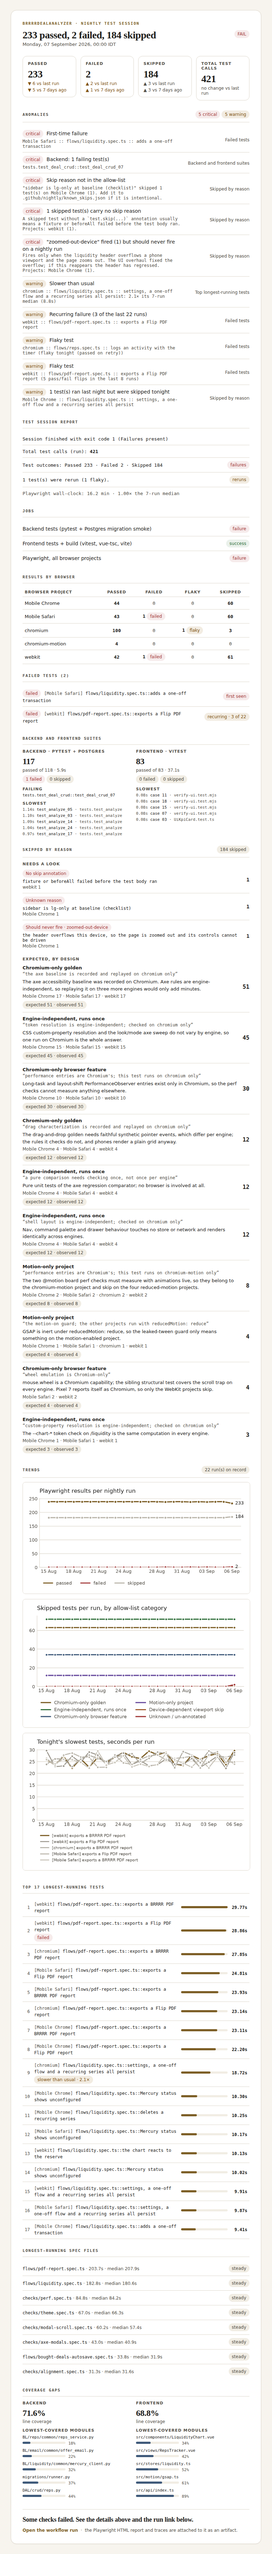
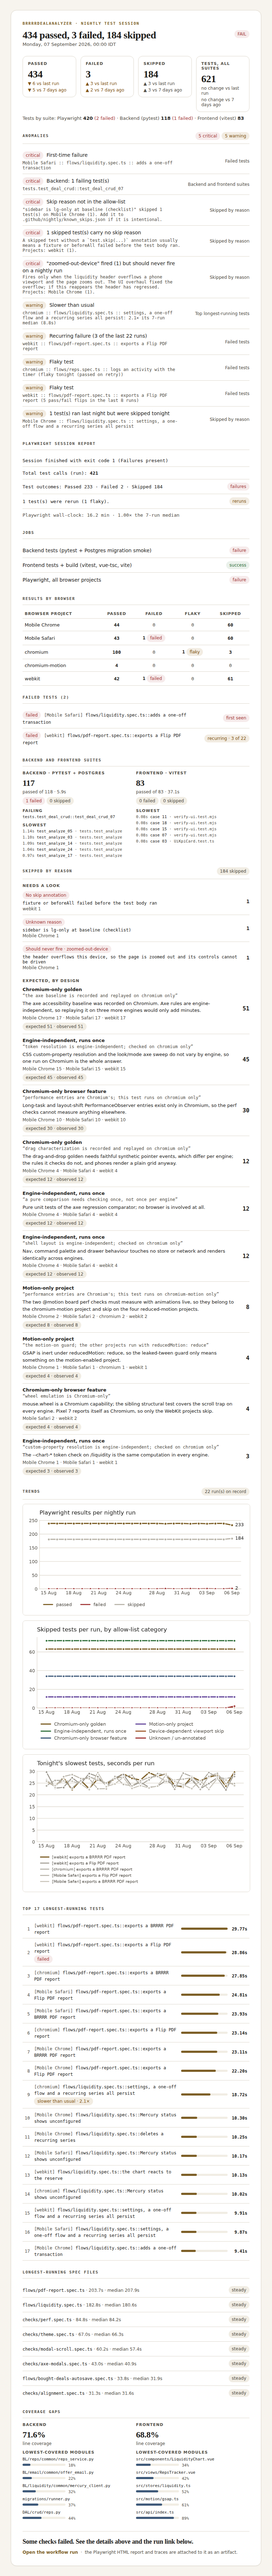
Nightly mail: headline and tiles count every suite, not just Playwright
The subject, headline and the four KPI tiles added up only the Playwright
run (239 + 181 = 420), while pytest (118) and vitest (1368) appeared only
in the suites section further down.

anomalies.suite_totals() now adds Playwright, backend and frontend into
passed / failed / skipped / total with per-suite parts, and tile_deltas
compares those combined numbers so deltas keep working across runs. A
"Tests by suite" line under the tiles shows the split; the Playwright-only
section is titled "Playwright session report" and its legacy
"Total test calls (run)" line is unchanged.

Claude-Session: https://claude.ai/code/session_019tfM8BG2Fg9UuipToNTgk2

Changed region(s): [[0.0605, 0.0, 0.9079, 0.9979], [0.6658, 0.7484, 0.9079, 0.9355]]

diff --git a/.github/scripts/nightly/anomalies.py b/.github/scripts/nightly/anomalies.py
@@ -30,18 +30,52 @@ def delta(current: float | int | None, baseline: float | int | None) -> dict | N
     return {"diff": diff, "word": word}
 
 
+SUITES = ("playwright", "backend", "frontend")
+
+
+def suite_totals(record: dict) -> dict:
+    """Passed / failed / skipped / total across every suite in a record, plus the per-suite parts.
+
+    Playwright counts come from its stats (a flaky test passed on retry, so it counts as passed);
+    pytest and vitest from their JUnit summaries. A suite whose report is missing contributes
+    nothing and is marked ``available: False`` in ``parts``.
+    """
+    parts: dict[str, dict] = {}
+    pw = record.get("playwright") or {}
+    stats = pw.get("stats") or {}
+    if pw.get("available", bool(stats)):
+        passed = stats.get("expected", 0) + stats.get("flaky", 0)
+        parts["playwright"] = {"available": True, "passed": passed, "failed": stats.get("unexpected", 0),
+                               "skipped": stats.get("skipped", 0)}
+    else:
+        parts["playwright"] = {"available": False}
+    for name in ("backend", "frontend"):
+        j = ((record.get("junit") or {}).get(name)) or {}
+        if j.get("available"):
+            failed = j.get("failures", 0) + j.get("errors", 0)
+            parts[name] = {"available": True, "passed": j.get("tests", 0) - failed - j.get("skipped", 0),
+                           "failed": failed, "skipped": j.get("skipped", 0)}
+        else:
+            parts[name] = {"available": False}
+    for part in parts.values():
+        if part["available"]:
+            part["total"] = part["passed"] + part["failed"] + part["skipped"]
+    totals = {k: sum(p[k] for p in parts.values() if p["available"]) for k in ("passed", "failed", "skipped", "total")}
+    totals["parts"] = parts
+    return totals
+
+
 def tile_deltas(record: dict, prev: dict | None, week: dict | None) -> dict:
-    stats = (record.get("playwright") or {}).get("stats") or {}
+    """Tile deltas over the combined totals of every suite (see ``suite_totals``)."""
+    cur = suite_totals(record)
+    prev_t = suite_totals(prev) if prev else None
+    week_t = suite_totals(week) if week else None
     out = {}
-    for tile, key in (("passed", "expected"), ("failed", "unexpected"), ("skipped", "skipped")):
-        cur = stats.get(key)
+    for tile in ("passed", "failed", "skipped", "total"):
         out[tile] = {
-            "vs_prev": delta(cur, ((prev or {}).get("playwright") or {}).get("stats", {}).get(key)) if prev else None,
-            "vs_week": delta(cur, ((week or {}).get("playwright") or {}).get("stats", {}).get(key)) if week else None,
+            "vs_prev": delta(cur[tile], prev_t[tile]) if prev_t else None,
+            "vs_week": delta(cur[tile], week_t[tile]) if week_t else None,
         }
-    cur_calls = sum(sum(v.values()) for v in ((record.get("playwright") or {}).get("projects") or {}).values())
-    prev_calls = sum(sum(v.values()) for v in (((prev or {}).get("playwright") or {}).get("projects") or {}).values()) if prev else None
-    out["total_calls"] = {"vs_prev": delta(cur_calls, prev_calls) if prev else None, "vs_week": None}
     return out
 
 

diff --git a/.github/scripts/nightly/render_html.py b/.github/scripts/nightly/render_html.py
@@ -15,6 +15,22 @@ def fmt_minutes(ms: float) -> str:
     return f"{ms / 1000 / 60:.1f} min"
 
 
+SUITE_NAMES = {"playwright": "Playwright", "backend": "Backend (pytest)", "frontend": "Frontend (vitest)"}
+
+
+def _suite_parts_line(parts: dict) -> str:
+    """'Playwright 420 · Backend (pytest) 118 · Frontend (vitest) 1368', a missing suite says so."""
+    bits = []
+    for key, name in SUITE_NAMES.items():
+        part = parts.get(key) or {}
+        if part.get("available"):
+            bits.append(f'{e(name)} <b style="color:{T.INK};">{part["total"]}</b>'
+                        + (f' <span style="color:{T.NEGATIVE};">({part["failed"]} failed)</span>' if part["failed"] else ""))
+        else:
+            bits.append(f"{e(name)} no report")
+    return "Tests by suite: " + " · ".join(bits)
+
+
 def _delta_lines(deltas: dict | None, up_is_good: bool | None) -> list[tuple[str, str]]:
     """Tile delta lines: (text, tone). Tone = direction × whether up is good; None → neutral."""
     if not deltas:
@@ -57,15 +73,17 @@ def render_html(ctx: dict, image_cids: dict[str, str]) -> str:
     )
 
     # --- tiles -----------------------------------------------------------------
+    totals = ctx["totals"]
     tiles = "".join([
-        T.tile("Passed", s["passed"], _delta_lines(deltas.get("passed"), True)),
-        T.tile("Failed", s["failed"], _delta_lines(deltas.get("failed"), False)),
-        T.tile("Skipped", s["skipped"], _delta_lines(deltas.get("skipped"), None)),
-        T.tile("Total test calls", s["total_calls"], _delta_lines(deltas.get("total_calls"), None)),
+        T.tile("Passed", totals["passed"], _delta_lines(deltas.get("passed"), True)),
+        T.tile("Failed", totals["failed"], _delta_lines(deltas.get("failed"), False)),
+        T.tile("Skipped", totals["skipped"], _delta_lines(deltas.get("skipped"), None)),
+        T.tile("Tests, all suites", totals["total"], _delta_lines(deltas.get("total"), None)),
     ])
     tiles_row = (
-        f'<tr><td style="padding:14px 26px 6px 26px;">'
+        f'<tr><td style="padding:14px 26px 0 26px;">'
         f'<table role="presentation" width="100%" cellpadding="0" cellspacing="0"><tr>{tiles}</tr></table></td></tr>'
+        f'<tr><td style="padding:8px 32px 6px 32px;">{T.note(_suite_parts_line(totals["parts"]))}</td></tr>'
     )
 
     # --- anomalies -------------------------------------------------------------
@@ -113,7 +131,7 @@ def render_html(ctx: dict, image_cids: dict[str, str]) -> str:
     ]
     if duration_line:
         session_rows.append((T.mono(e(duration_line), colour=T.MUTED), T.pill("slow", "warning") if a["wall"] and a["wall"]["slow"] else ""))
-    session_block = T.section("Test session report", T.table("".join(
+    session_block = T.section("Playwright session report", T.table("".join(
         T.row(l, r, last=(i == len(session_rows) - 1)) for i, (l, r) in enumerate(session_rows))))
 
     # --- jobs ---------------------------------------------------------------------

diff --git a/.github/scripts/nightly/tests/test_nightly.py b/.github/scripts/nightly/tests/test_nightly.py
@@ -240,6 +240,21 @@ class Anomalies(unittest.TestCase):
         prev["playwright"]["stats"]["expected"] = 8
         self.assertEqual(anomalies.tile_deltas(tonight, prev, None)["passed"]["vs_prev"]["word"], "up 2")
 
+    def test_suite_totals_add_every_suite(self):
+        rec = self._rec(8, {"a": 1000}, failed=["b"], flaky=["c"])
+        rec["playwright"]["stats"].update({"flaky": 1, "skipped": 181})
+        rec["junit"] = {"backend": {"available": True, "tests": 118, "failures": 1, "errors": 0, "skipped": 2},
+                        "frontend": {"available": False}}
+        t = anomalies.suite_totals(rec)
+        self.assertEqual((t["passed"], t["failed"], t["skipped"]), (10 + 1 + 115, 1 + 1, 181 + 2))
+        self.assertEqual(t["total"], t["passed"] + t["failed"] + t["skipped"])
+        self.assertEqual(t["parts"]["playwright"]["total"], 193)
+        self.assertEqual(t["parts"]["backend"]["total"], 118)
+        self.assertFalse(t["parts"]["frontend"]["available"])
+        # Deltas compare the combined numbers: a backend suite that grew shows up in the tile.
+        prev = json.loads(json.dumps(rec)); prev["junit"]["backend"]["tests"] = 100
+        self.assertEqual(anomalies.tile_deltas(rec, prev, None)["total"]["vs_prev"]["word"], "up 18")
+
 
 class EndToEnd(unittest.TestCase):
     """The CLI renders the preview fixtures; every legacy line is present; the HTML stays under budget."""
@@ -277,7 +292,7 @@ class EndToEnd(unittest.TestCase):
 
     def test_legacy_lines_present(self):
         text = self.text.read_text()
-        for line in ("Test Session Report", "Session finished with exit code 1 (Failures present)", "Total test calls (run): ",
+        for line in ("Playwright Session Report", "Session finished with exit code 1 (Failures present)", "Total test calls (run): ",
                      "Test Outcomes:", "  Passed: ", "  Failed: 2", "  Skipped: ", "test(s) were rerun (1 flaky).",
                      "Results by browser:", "Failed tests (2):", "Longest-Running Tests:", "Some checks failed.",
                      "Run and HTML report artifact: https://example.test/run/1"):
@@ -289,6 +304,11 @@ class EndToEnd(unittest.TestCase):
                      "UNKNOWN REASON", "NO SKIP ANNOTATION", "[first seen]", "[recurring,", "SHOULD NEVER FIRE",
                      "slower than usual"):
             self.assertIn(line, text, line)
+        # The headline adds every suite, the Playwright-only figure stays in its own section.
+        totals = anomalies.suite_totals(json.loads(self.record.read_text()))
+        self.assertGreater(totals["total"], totals["parts"]["playwright"]["total"])
+        self.assertIn(f"{totals['passed']} passed, {totals['failed']} failed, {totals['skipped']} skipped", text)
+        self.assertIn("Tests by suite: Playwright ", text)
         record = json.loads(self.record.read_text())
         self.assertEqual(record["v"], 1)
         self.assertEqual(record["playwright"]["stats"]["unexpected"], 2)

diff --git a/.github/scripts/nightly/main.py b/.github/scripts/nightly/main.py
@@ -95,8 +95,6 @@ def build_context(args: argparse.Namespace) -> dict:
 
     # --- sources ---------------------------------------------------------------
     summary = summarise(load_report(args.playwright))
-    headline = (f"{summary['passed']} passed, {summary['failed']} failed, {summary['skipped']} skipped"
-                if summary["available"] else "no Playwright report")
     backend = junit.parse(args.backend_junit)
     frontend = junit.parse(args.frontend_junit)
     cov_backend = coverage.parse_pytest_cov_json(args.backend_coverage)
@@ -119,6 +117,11 @@ def build_context(args: argparse.Namespace) -> dict:
         summary=summary, skips_record=skips.to_record(groups), backend=backend, frontend=frontend,
         coverage_backend=cov_backend, coverage_frontend=cov_frontend, prior=prior,
     )
+    # Headline numbers add every suite (Playwright + pytest + vitest); the Playwright-only
+    # figures keep their own section further down.
+    totals = anomalies.suite_totals(record)
+    headline = (f"{totals['passed']} passed, {totals['failed']} failed, {totals['skipped']} skipped"
+                if totals["total"] else "no test reports")
     comparable = history.comparable(prior, record)
     prev = history.previous(prior, record)
     week = history.week_ago(prior, record, now)
@@ -135,7 +138,7 @@ def build_context(args: argparse.Namespace) -> dict:
     return {
         "verdict": verdict, "headline": headline, "when": when_in_israel(now), "now": now,
         "jobs": jobs, "e2e_outcome": e2e_outcome, "exit_code": exit_code, "run_url": env("RUN_URL", ""),
-        "summary": summary,
+        "summary": summary, "totals": totals,
         "junit": {"backend": backend, "frontend": frontend},
         "coverage": {"backend": cov_backend, "frontend": cov_frontend,
                      "status": coverage.status(cov_backend, cov_frontend), "steps": coverage.NOT_WIRED_STEPS},

diff --git a/.github/scripts/nightly/render_text.py b/.github/scripts/nightly/render_text.py
@@ -18,6 +18,13 @@ def render_text(ctx: dict) -> str:
         ctx["when"],
         "=" * 44,
         "",
+        "Tests by suite: " + " | ".join(
+            f"{name} {part['total']}" + (f" ({part['failed']} failed)" if part["failed"] else "")
+            if part.get("available") else f"{name} no report"
+            for name, part in (("Playwright", ctx["totals"]["parts"]["playwright"]),
+                               ("Backend (pytest)", ctx["totals"]["parts"]["backend"]),
+                               ("Frontend (vitest)", ctx["totals"]["parts"]["frontend"]))),
+        "",
         "Jobs:",
         *[f"  {label}: {outcome}" for label, outcome in ctx["jobs"]],
         "",
@@ -31,7 +38,7 @@ def render_text(ctx: dict) -> str:
         lines += [f"  none against the allow-list or the last {ctx['history']['count']} run(s)."]
     lines += [""]
 
-    lines += ["Test Session Report", "-" * 44]
+    lines += ["Playwright Session Report", "-" * 44]
     if s["available"]:
         lines += [
             f"Session finished with exit code {ctx['exit_code']} "

diff --git a/tasks/todo.md b/tasks/todo.md
@@ -196,3 +196,26 @@ files; PASS and FAIL previews rendered with 22 synthetic history records and scr
 flaky in ≥3 of 14 runs; history rotation past ~365 records; bootstrapping history from the
 four archived reports; trends for the custom perf annotations already in the Playwright
 report; a repository ruleset keeping the Actions token off `main`.
+
+# Nightly headline counts every suite
+
+Problem: the mail's subject, headline and the four tiles count Playwright only
+(239 + 181 = 420 "test calls"), while pytest (118) and vitest (1368) appear only
+in the suites section further down. Fix: the headline numbers add all three suites;
+the Playwright-only lines stay where they are, labelled as Playwright's.
+
+- [x] **H1** (15 min) — `anomalies.suite_totals(record)`: passed / failed / skipped / total across Playwright + backend + frontend from a history record, with per-suite parts; `tile_deltas` compares those, so deltas keep working across runs.
+- [x] **H2** (10 min) — `main.py`: headline (and so the subject) from the combined totals; `ctx["totals"]`.
+- [x] **H3** (15 min) — `render_html.py` / `render_text.py`: tiles show the combined numbers with a "Playwright · Backend · Frontend" line under them; the Playwright session section is titled as Playwright's, its "Total test calls (run)" line unchanged.
+- [x] **H4** (10 min) — Unit test for `suite_totals` (missing suite, totals add up); previews re-rendered.
+- [x] **H5** (10 min) — Commit, push, PR for review.
+
+## Nightly headline review
+
+`anomalies.suite_totals(record)` adds Playwright (stats; a flaky test counts as passed), pytest and
+vitest (JUnit) into passed / failed / skipped / total with per-suite parts, and `tile_deltas` now
+compares those combined numbers, so deltas keep working across runs (old records have the same
+fields). The subject, headline and four tiles use the combined totals; a "Tests by suite" line under
+the tiles shows the split; the Playwright-only section is titled "Playwright session report" and its
+"Total test calls (run)" line is unchanged. 20 unit tests pass; previews and `docs/nightly` screenshots
+re-rendered (fixtures: 440 passed / 181 skipped / 621 total on the PASS mail).
